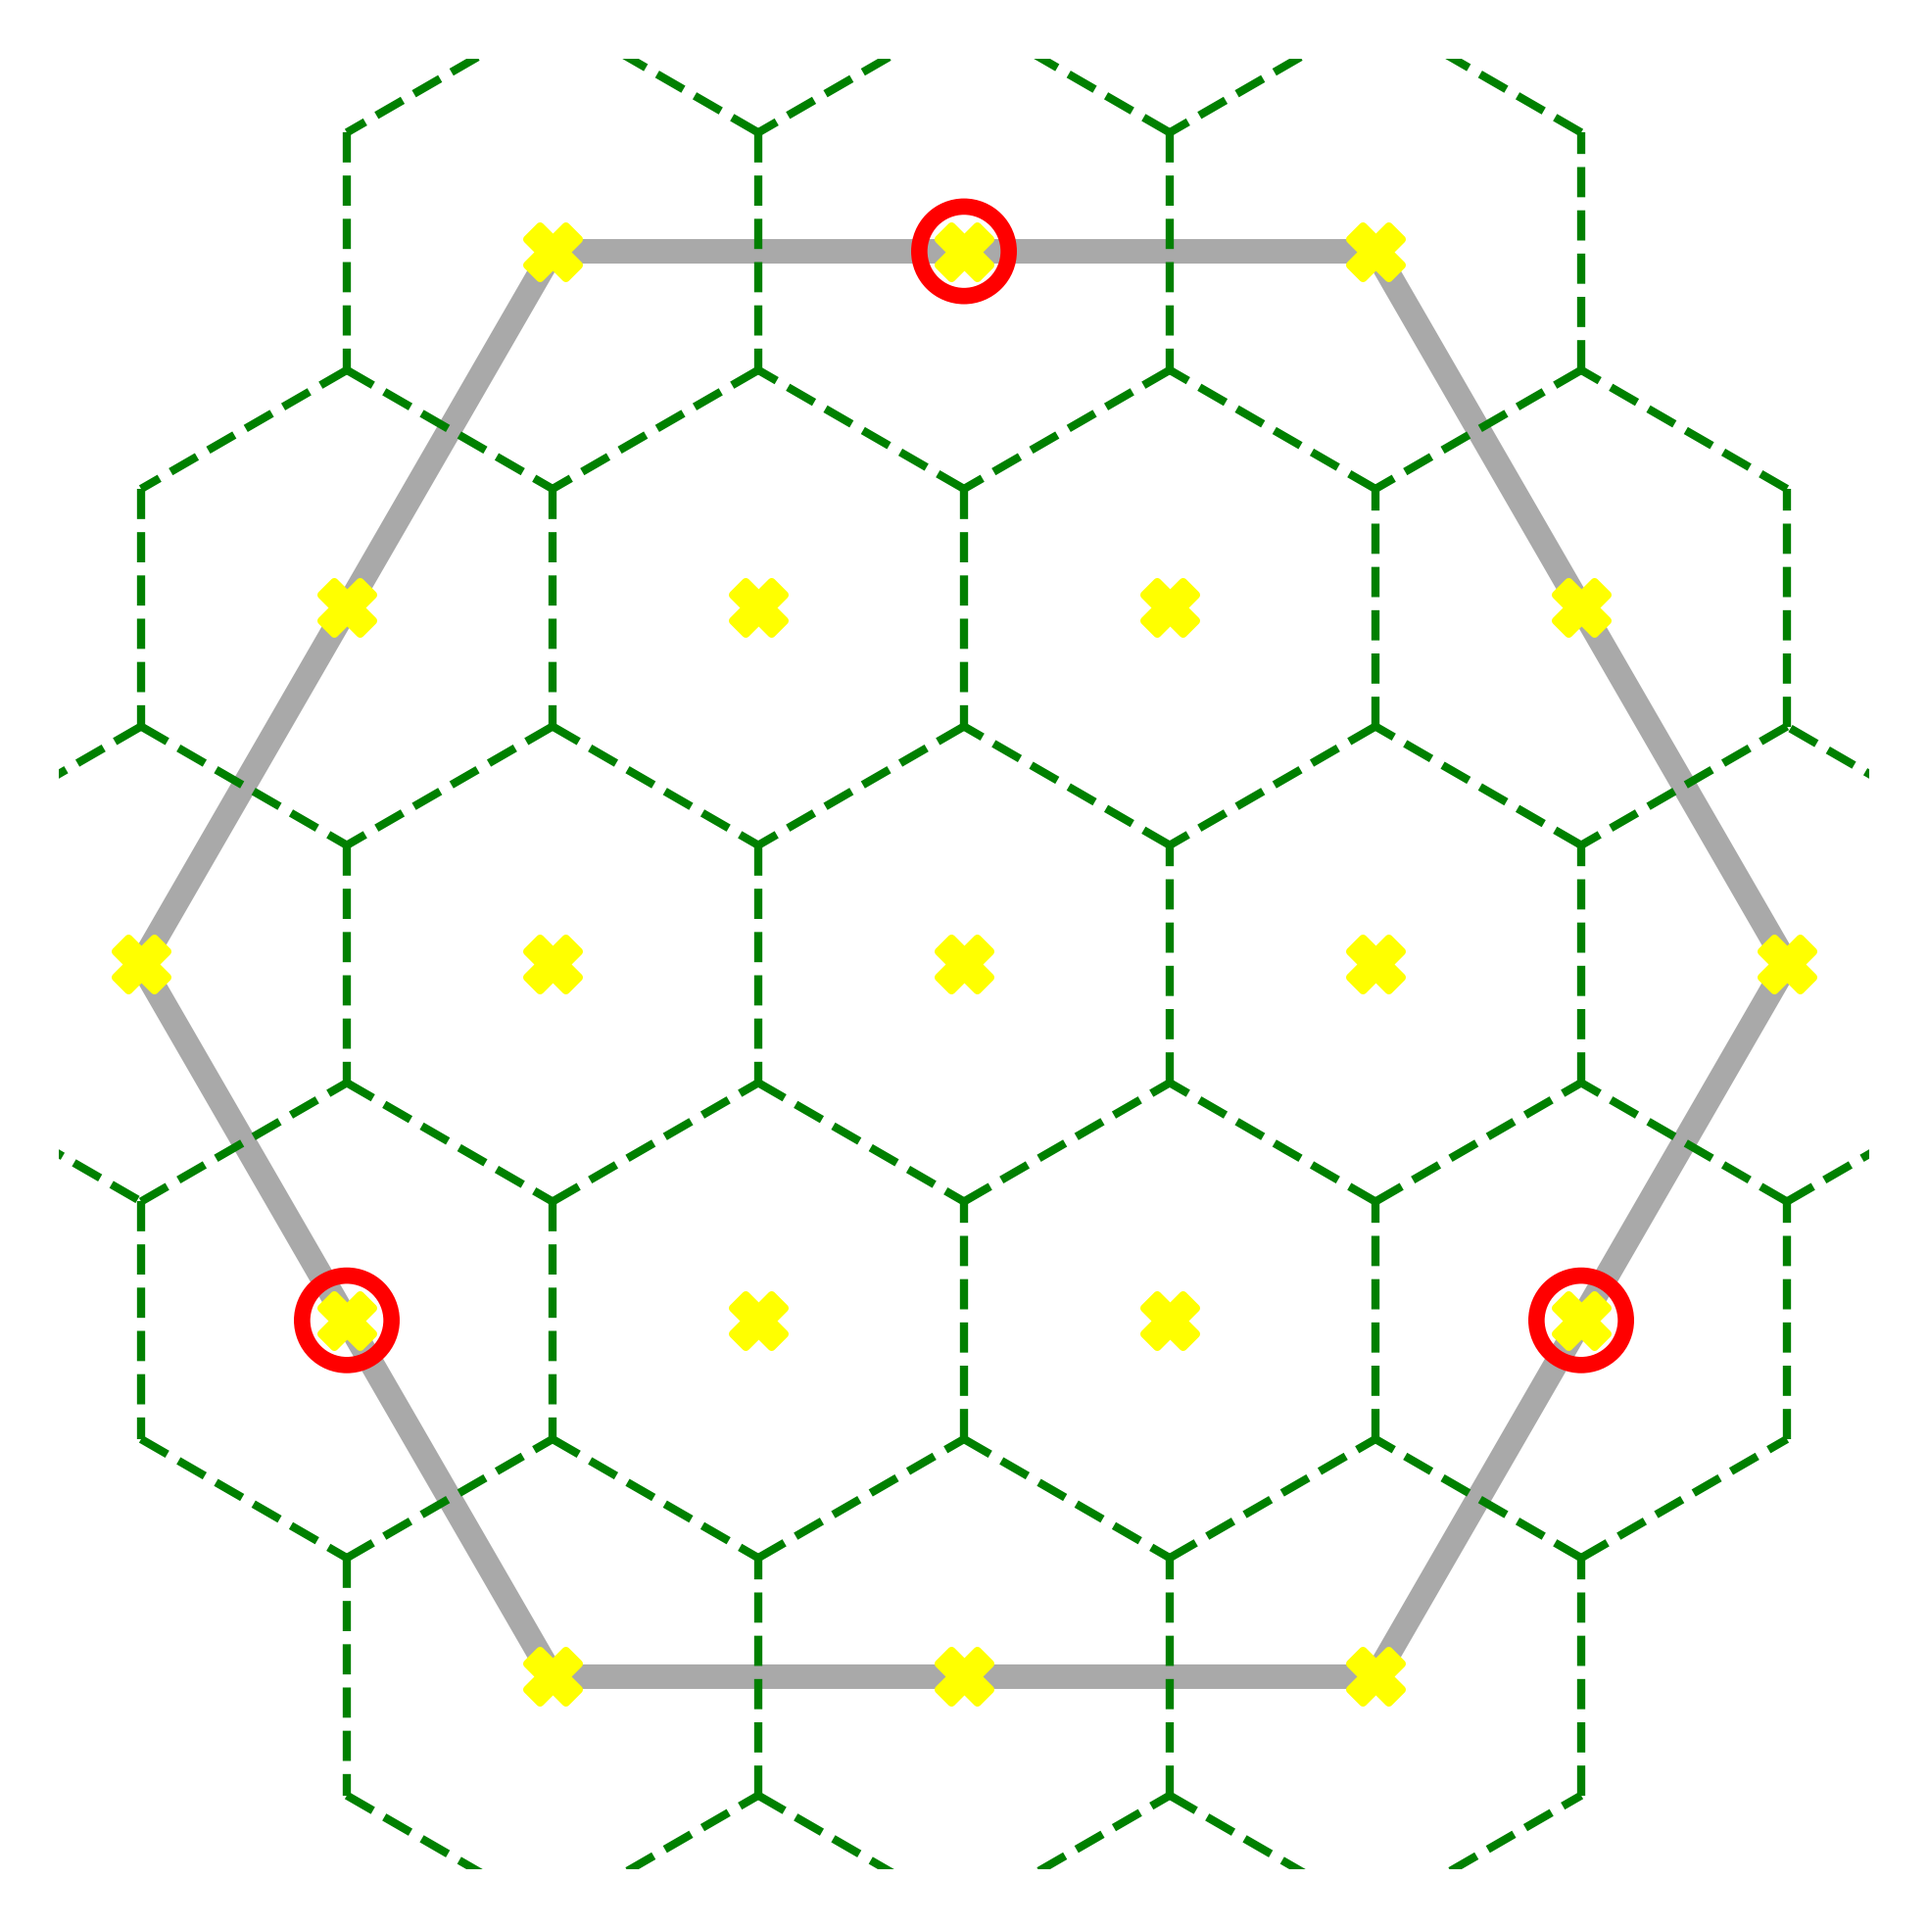
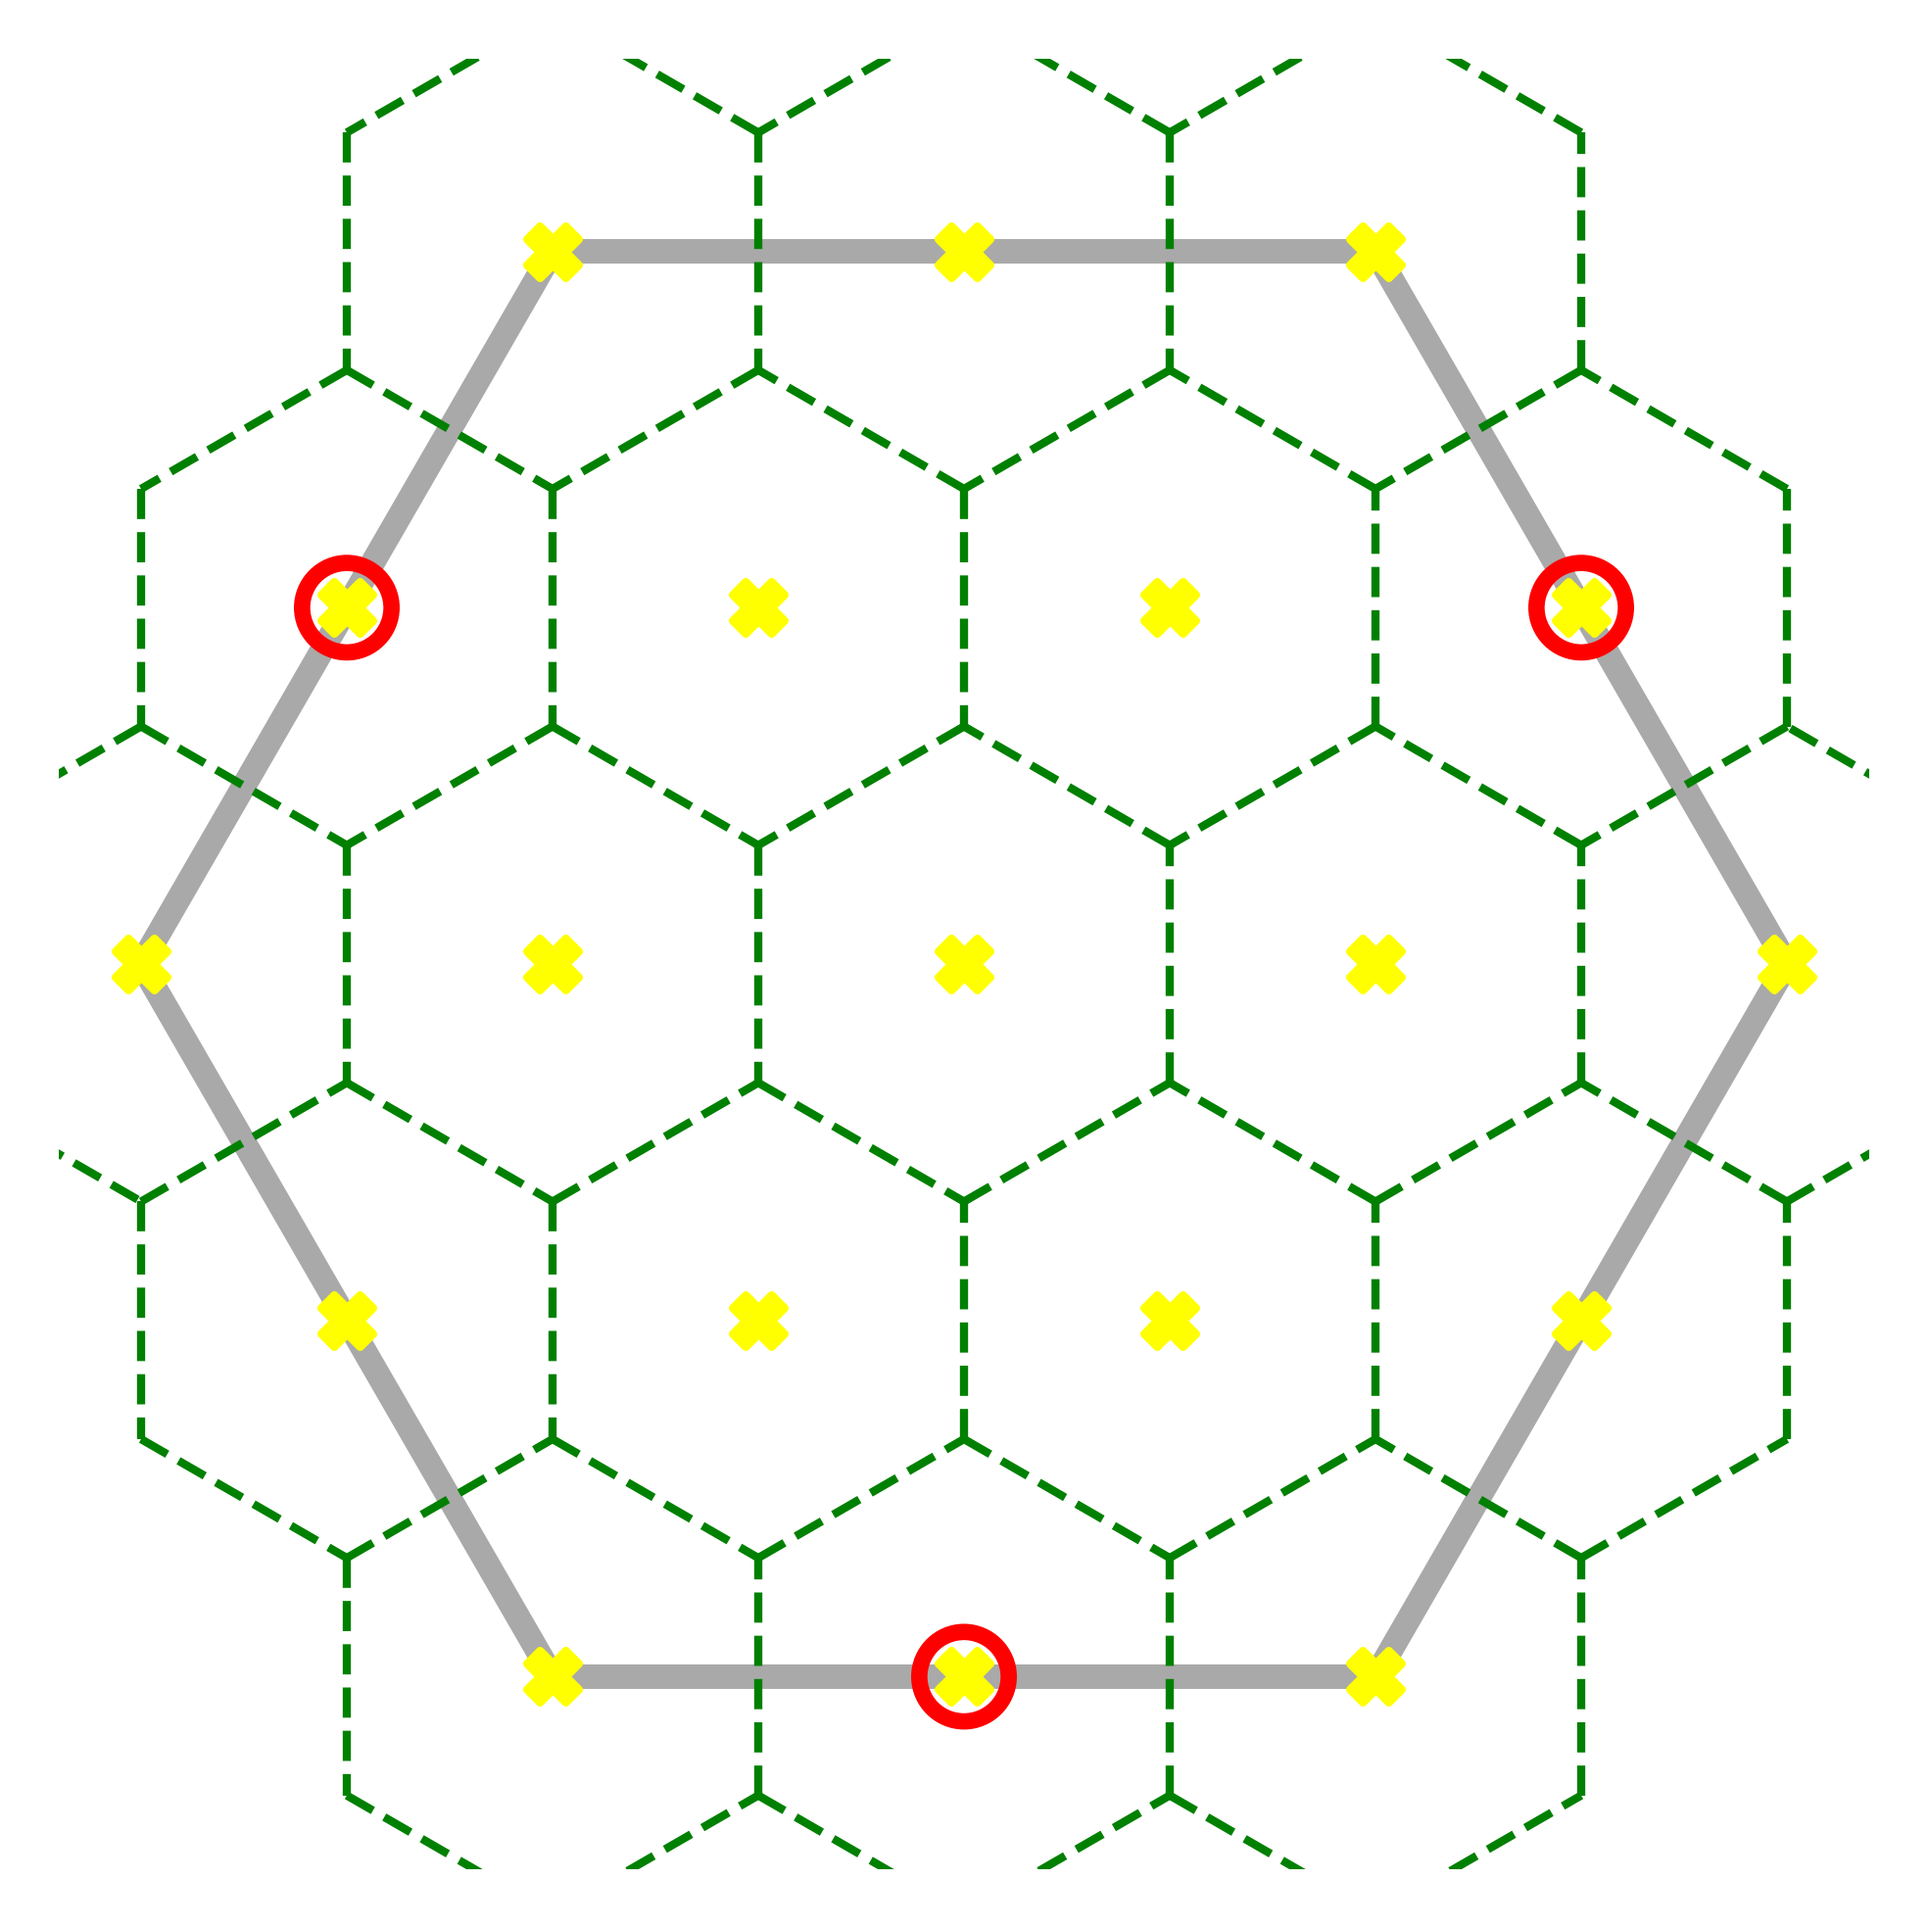
Change box locations

diff --git a/hexarena/arena.py b/hexarena/arena.py
@@ -54,7 +54,7 @@ class Arena:
                         self.outers.append(t_idx)
                         if k==0:
                             self.corners.append(t_idx)
-                        elif j%2==1 and k==self.resol//2:
+                        elif j%2==0 and k==self.resol//2:
                             self.boxes.append(t_idx)
                     else:
                         self.inners.append(t_idx)

diff --git a/hexarena/env.py b/hexarena/env.py
@@ -170,5 +170,5 @@ class ForagingEnv(Env):
             return pa, sc, ti
 
         ani = FuncAnimation(fig, update, frames=range(episode.num_steps+1), blit=True)
-        ani.save(aname)
+        ani.save(aname, writer='pillow')
         return fig
